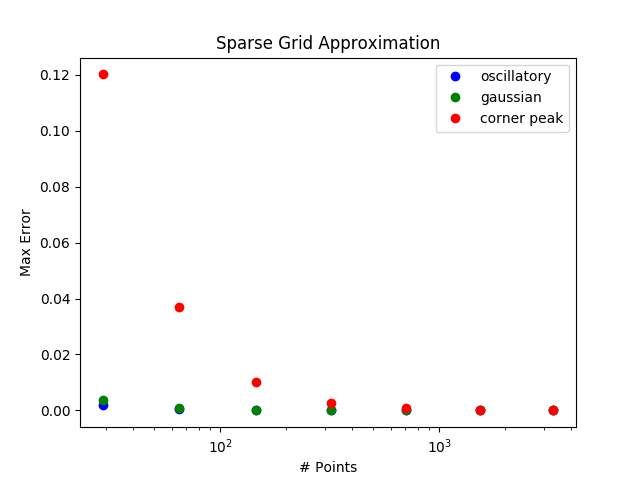
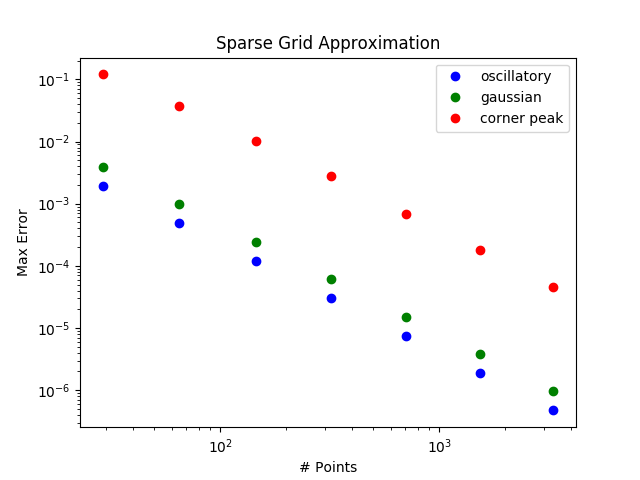
modify

diff --git a/day1_SparseGrid/SparseGridCode/analytical_examples/TASMANIAN_Python/homework.py b/day1_SparseGrid/SparseGridCode/analytical_examples/TASMANIAN_Python/homework.py
@@ -163,6 +163,7 @@ numPointsS1, errorStoreS1 = sparse_grid(iDim, iOut, which_basis, gaussian, c, w)
 numPointsS2, errorStoreS2 = sparse_grid(iDim, iOut, which_basis, corner_peak, c, w)
 
 plt.xscale('log')
+plt.yscale('log')
 plt.plot(numPointsS, errorStoreS, 'bo', label = "oscillatory")
 plt.plot(numPointsS1, errorStoreS1, 'go', label = "gaussian")
 plt.plot(numPointsS2, errorStoreS2, 'ro', label = "corner peak")
